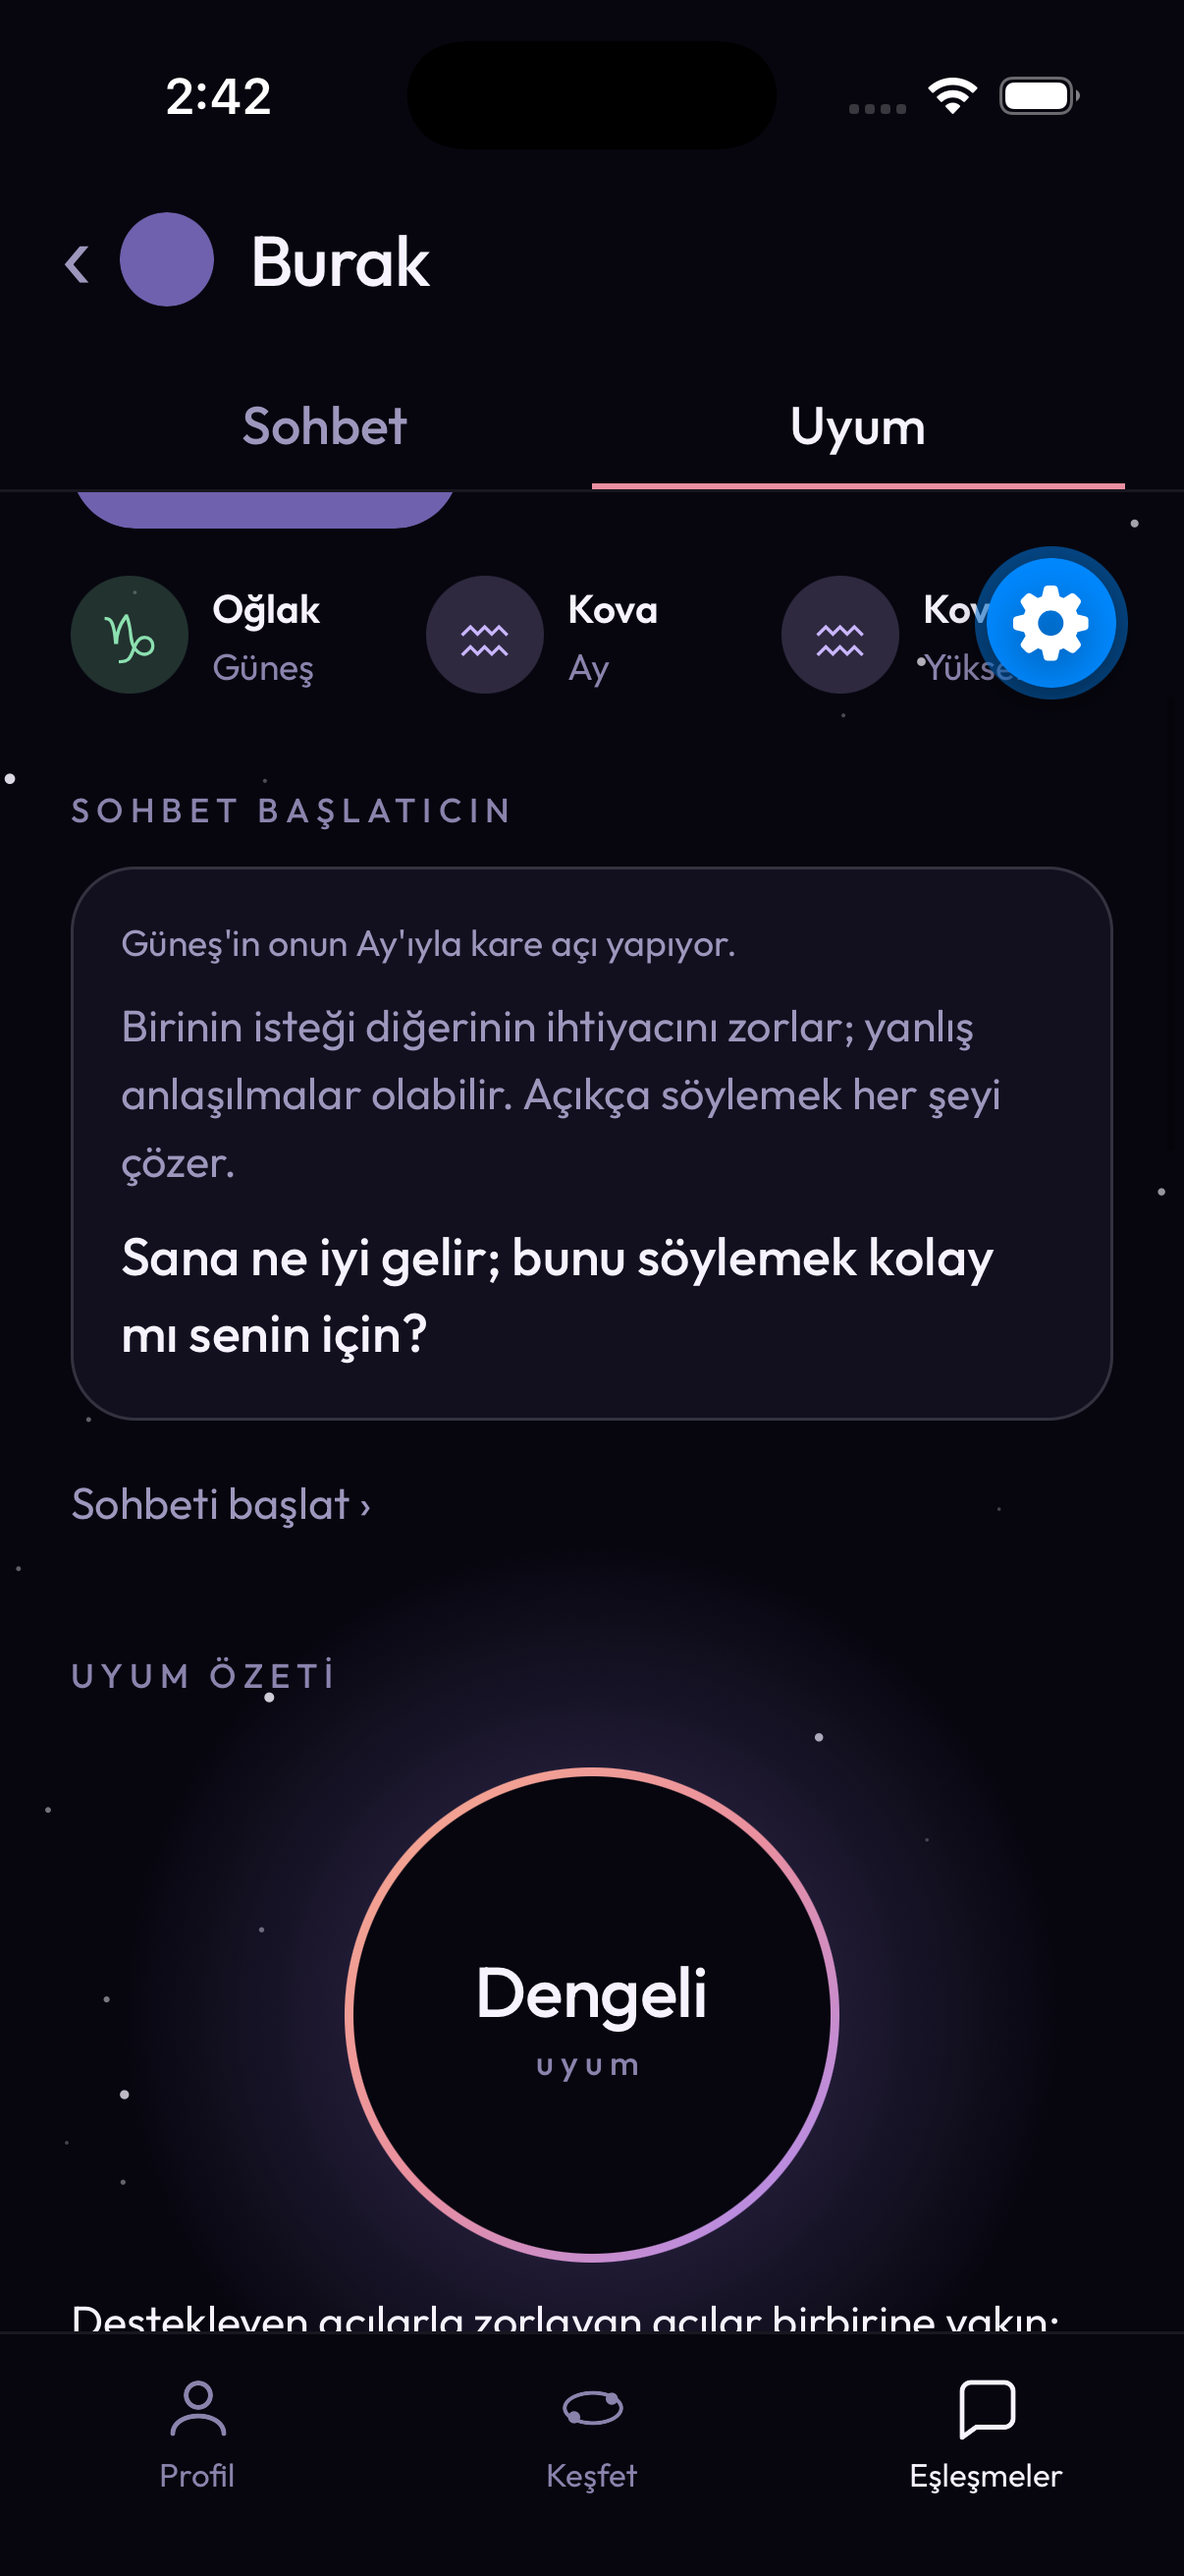
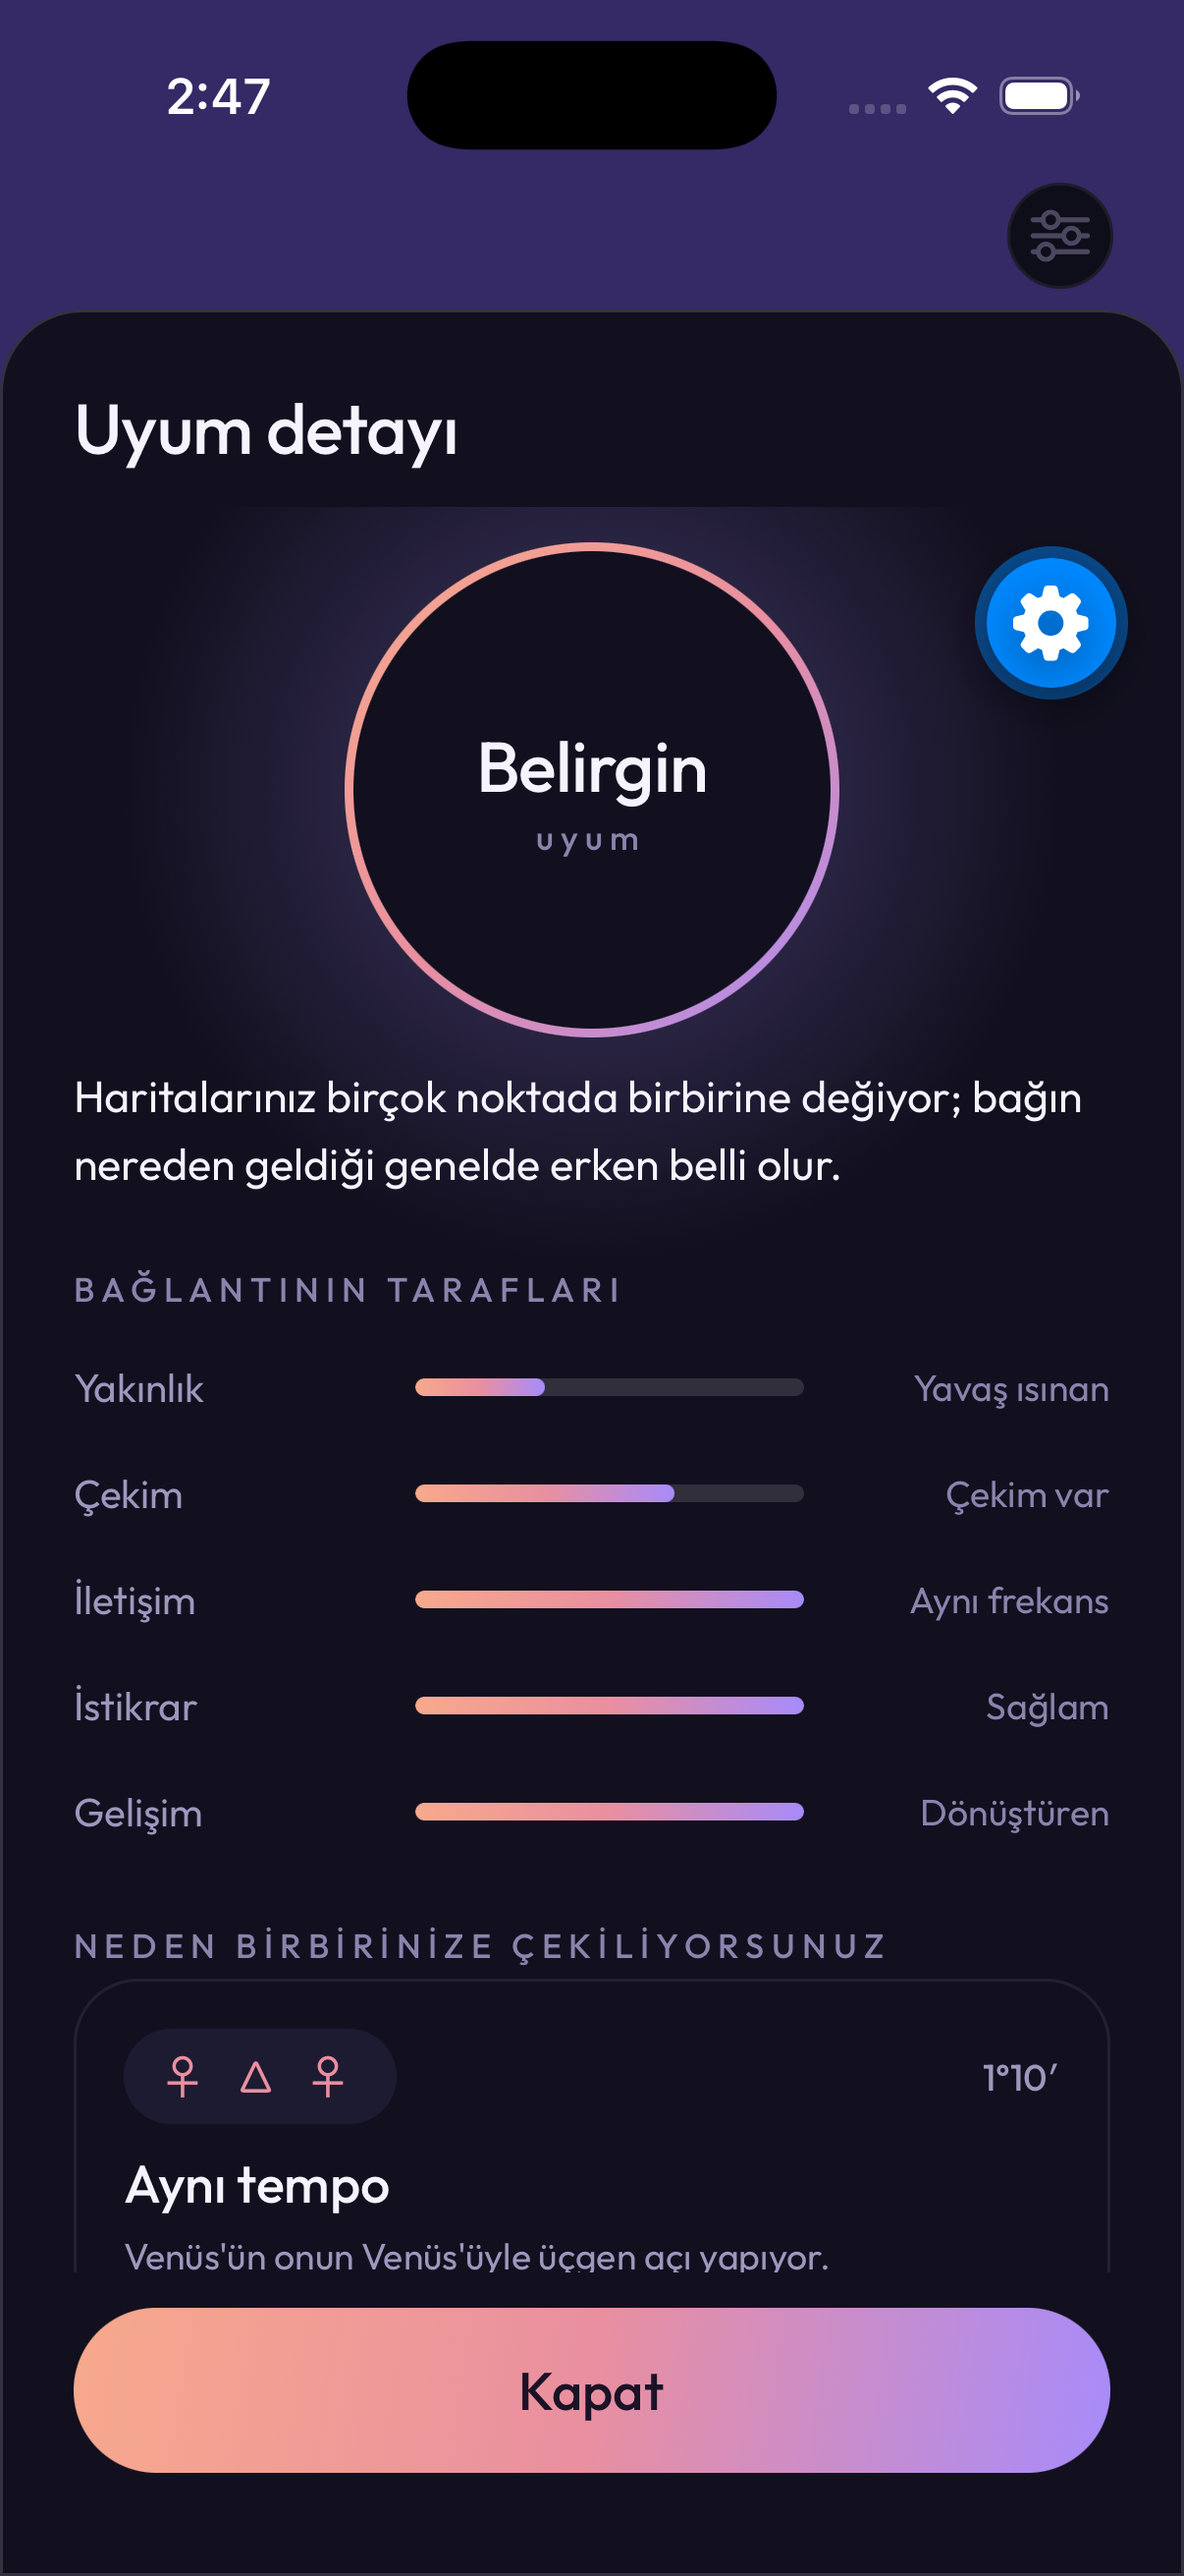
fix(mobile): the dimension rows keep their spacing inside the list
And the D5 evidence is the sheet again: the ring on the sheet's own
ground with the tracks under it, which is what the previous commit
changed and the page-scrolled capture could not show.

diff --git a/apps/mobile/components/CompatibilityDetail.tsx b/apps/mobile/components/CompatibilityDetail.tsx
@@ -51,7 +51,7 @@ export function CompatibilityDetail({
               a track filled to the level, the level's word. Thirds, not
               a number — the level has three steps and the fill is the
               step, so no figure reaches a Text (ADR-0009). */}
-          <View role="list">
+          <View role="list" style={styles.dimensions}>
             {reading.dimensions.map((d) => (
               <View
                 key={d.dimension}
@@ -200,6 +200,7 @@ const styles = StyleSheet.create({
   },
   body: { ...type.body, color: color.text },
   bodyMuted: { ...type.bodySmall, color: color.textMuted },
+  dimensions: { gap: space.sm },
   dimensionRow: {
     flexDirection: 'row',
     alignItems: 'center',

diff --git a/docs/ROADMAP.md b/docs/ROADMAP.md
@@ -1438,8 +1438,9 @@ controls that take one gesture instead of a dozen taps.
       beside them on up to two lines, since that word is the dimension's
       value (ADR-0009 §2); each aspect card opens with its glyphs in a
       pill and the orb across from them. The match page sits on the
-      star field. `d5-match.png` is the deck's Uyum detayı sheet, the
-      same `PairReading` the match page shows._
+      star field. `d5-match.png` is the deck's Uyum detayı sheet — the
+      same `PairReading` the match page shows — with the ring painted on
+      the sheet's own ground and the tracks under it._
 
 - [ ] **D6 — Starter and chat (frames 13, 14).** The starter's suggested
       card and its "try another" (already supported: `starterOptions`

diff --git a/docs/NOTES.md b/docs/NOTES.md
@@ -4954,8 +4954,9 @@ What landed, in the order the owner saw it:
 - **Chart cards and the match page** (`e373a85`): element-coloured sign
   badges on every placement card (the engine's `PlacementReading` now
   carries `sign`); the band inside a gradient ring, dimensions as
-  tracks filled in thirds, aspect cards opening with glyphs and orb;
-  stars behind the match page and the starter (`26a7d4f`).
+  tracks filled in thirds, aspect cards opening with glyphs and orb,
+  stars behind the match page; stars behind the starter too
+  (`26a7d4f`).
 
 **The seed photos are the remaining gap.** `seed-photos.ts` uploads
 solid-colour plates, and a deck without portraits will not look like the
